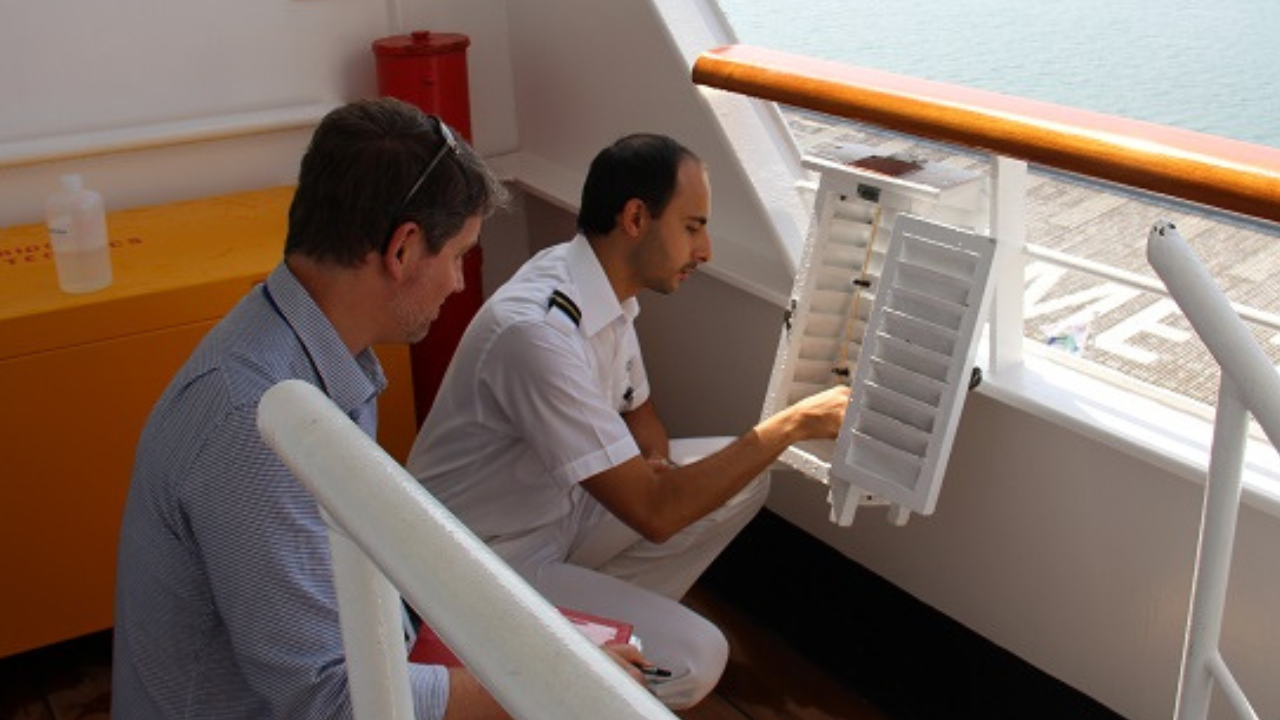
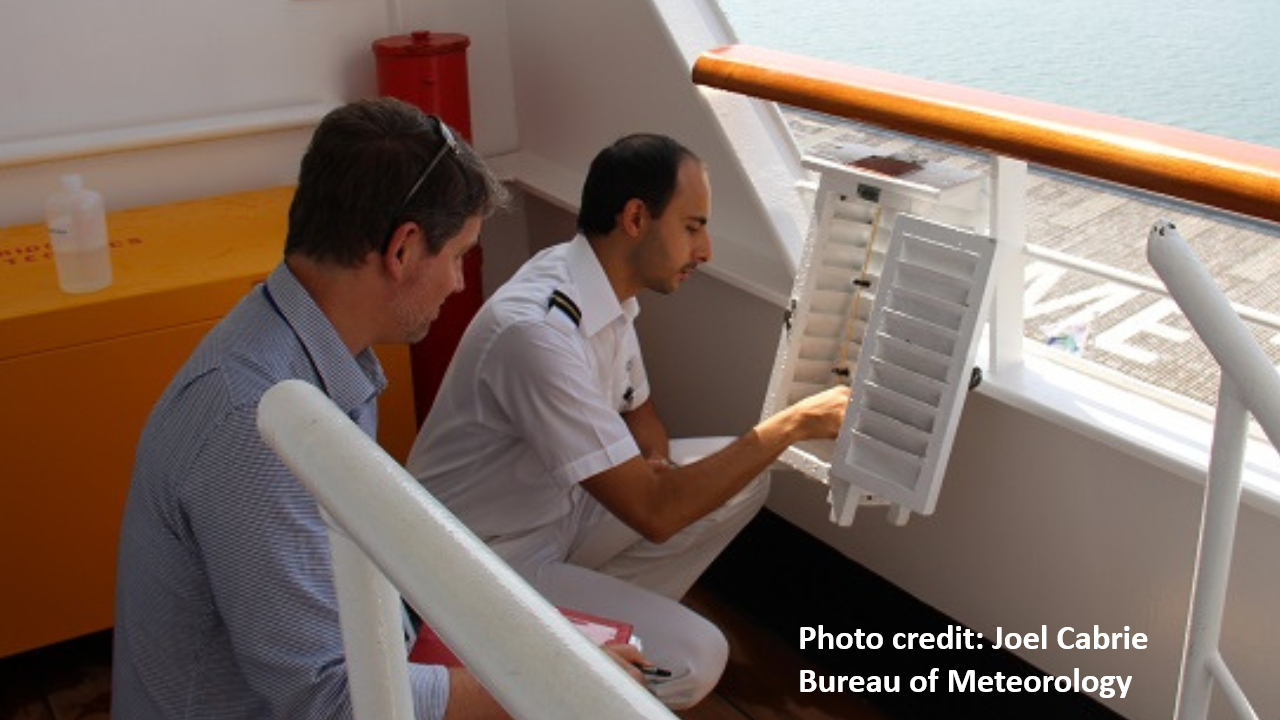
fix(images and content): added/replaced two images and two html files (request from Joel)

Changed region(s): [[0.625, 0.8556, 0.9062, 0.9778]]

diff --git a/vos.html b/vos.html
@@ -74,7 +74,7 @@
       </div>
       <div class="hero-column-mid">
         <div class="hero-content">
-          <h1>The Voluntary Observing Ship Scheme — ships at sea in service of science</h1>
+          <h1>The Voluntary Observing Ship Scheme — Supporting maritime safety</h1>
         </div>
         <div class="hero-logos">
           <a href="https://www.wmo.int" target="_blank">
@@ -99,8 +99,8 @@
       <div class="content content-float">
         <h2 id="vos_history">The Voluntary Observing Ship Scheme</h2>
         <figure class="floating-image-right" style="max-width: 500px;">
-          <img src="figures/VOS_instruments.png" alt="Meteorological instrument to be installed onboard of VOS ships">
-          <figcaption>Meteorological instrument to be installed onboard of VOS ships</figcaption>
+          <img src="figures/VOS_instruments.png" alt="Meteorological instrument used on VOS">
+          <figcaption>Meteorological instrument used on VOS. Credit: Deutscher Wetterdienst (DWD) </figcaption>
         </figure>
         <div class="text-content">
           <p>
@@ -124,13 +124,13 @@
   <!-- Statistics Section -->
   <section class="statistics">
     <div class="container">
-      <h3 style="margin-bottom: 20px; text-align: left">Why VOS observations matter</h3>
+      <h3 style="margin-bottom: 20px; text-align: left">VOS observations and why they matter</h3>
       <div class="news-grid" style="margin-bottom: 20px;">
         <div class="news-item">
           <p>Atmospheric pressure</p>
         </div>
         <div class="news-item">
-          <p>Wind speed & direction</p>
+          <p>Sea state, wind & clouds</p>
         </div>
         <div class="news-item">
           <p>Sea surface temperature</p>
@@ -141,17 +141,16 @@
           <p>Air temperature & humidity</p>
         </div>
         <div class="news-item">
-          <p>Wave height & direction</p>
+          <p>Visibility & atmospheric phenomena</p>
         </div>
         <div class="news-item">
           <p>Sea ice extent</p>
         </div>
-      </div>
       <p style="margin-top: 20px; text-align: left">
-        The ocean covers about two-thirds of Earth's surface. For most of its history, ships were the only means of obtaining direct meteorological measurements from those vast, remote regions. That has not fundamentally changed: even with satellites, drifting buoys, and autonomous platforms, ships remain the only platforms capable of simultaneously measuring air temperature, dew point, and other surface variables with the directness and precision that operational weather and climate services require.
+        The ocean covers about two-thirds of Earth's surface. For most of its history, ships were the only means of obtaining direct meteorological measurements from those vast, remote regions. That has not fundamentally changed: even with satellites, drifting buoys, and autonomous platforms, ships remain the only stations capable of measuring air temperature, humidity, and other surface variables with the directness and precision that operational weather and climate services require.
       </p>
       <p style="margin-top: 20px; text-align: left">
-        VOS observations serve a wide range of essential purposes: the preparation of marine forecasts and warnings; support for offshore industry and maritime safety; numerical weather prediction models; weekly and monthly ocean state analyses; long-term climatological records; and research into climate variability and change. The 1,500+ ship reports received globally every day are foundational inputs to forecast models that protect lives and economies.
+        VOS observations serve a wide range of essential purposes: the preparation of marine forecasts and warnings; support for offshore industry and maritime safety; numerical weather prediction models; weekly and monthly ocean state analyses; long-term climatological records; and research into climate variability and change. The 2000+ ship reports reported globally every day are foundational inputs to forecast models that protect lives and economies.
       </p>
     </div>
   </section>
@@ -164,10 +163,10 @@
         <div class="twoparts-left">
           <h3>From ship to forecast — how VOS data moves</h3>
           <p>
-            Ships' observations are typically made at the standard synoptic hours of 0000, 0600, 1200, and 1800 UTC, and transmitted to shore by email or Inmarsat-C satellite communication. <a href="https://gitlab.com/KNMI-OSS/turbowin/turbowin/" target="_blank">Electronic logbook software</a> — most commonly TurboWin — assists observers in encoding, quality-checking, and transmitting their reports in internationally agreed format.
+            Ships' observations are made throughout the day and transmitted to shore. <a href="https://gitlab.com/KNMI-OSS/turbowin/turbowin/" target="_blank">Electronic logbook software</a> — most commonly TurboWin — assists observers in encoding, quality-checking, and transmitting their reports in internationally agreed format.
           </p>
           <p>
-            These real-time reports are distributed via the GTS within minutes and immediately assimilated into numerical weather prediction models at centres worldwide. Delayed-mode logbook data, collected by PMOs during port visits, are submitted quarterly in <a href="https://www.ocean-ops.org/sot/vos/documents/immt5.pdf">IMMT format</a> to the Global Data Collection Centres in Germany and the United Kingdom, building the long-term climate archive.
+            These real-time reports are distributed within minutes and immediately assimilated into numerical weather prediction models at centres worldwide. Delayed-mode logbook data, collected by PMOs during port visits, are submitted quarterly in <a href="https://www.ocean-ops.org/sot/vos/documents/immt5.pdf">IMMT format</a> to the Global Data Collection Centres in Germany and the United Kingdom, building the long-term climate archive.
           </p>
           <p>
             A list of all VOS ships and their instrumentation is maintained in the <a href="https://www.ocean-ops.org/board?t=sot">OceanOPS Metadata Database</a> — the authoritative global registry of the VOS fleet.
@@ -207,7 +206,7 @@
             The 10,000 Ships for the Ocean initiative addresses a critical disparity in the global observing architecture, as currently 15 times fewer data points are available over the ocean than over land. This gap leads to less accurate marine forecasts, increased uncertainty in storm predictions, and significant unknowns in climate projections. Launched at the 2025 United Nations Ocean Conference (UNOC3) and backed by the WMO, IOC-UNESCO, and IMO, this bold vision seeks to close these gaps by equipping 10,000 commercial vessels with standardized, automated meteorological and oceanographic technologies by 2035. By transforming the global fleet into a "science in motion" network, the initiative provides the ground truth necessary to power life-saving early warning systems, enhance numerical weather prediction (NWP) models, and support the UN Ocean Decade Vision 2030.
           </p>
           <p>
-            While both the 10,000 Ships initiative and the VOS Scheme are pillars of the Global Ocean Observing System (GOOS), they serve complementary roles in expanding ship-based observations. The 10,000 Ships initiative acts as a high-level strategic effort to scale up infrastructure and foster global alliances with the shipping industry through formal participation pledges. In contrast, the VOS Scheme is a long-standing operational network where National Meteorological Services recruit and train ships to transmit near real-time surface synoptic reports, forming the backbone of marine meteorology for over a century. Together, these efforts ensure that every ship and every observation contributes to a safer, better-understood world, reaching weather centres and research institutes globally.
+            The 10,000 Ships initiative and the VOS Scheme serve complementary roles in expanding ship-based observations. The 10,000 Ships initiative acts as a high-level strategic effort to scale up infrastructure and foster global alliances with the shipping industry through formal participation pledges. In contrast, the VOS Scheme is a long-standing operational network where National Meteorological Services recruit ships to transmit near real-time surface synoptic reports, forming the backbone of marine meteorology for over a century. Together, these efforts increase the number of observations available to help contribute to a safer, better-understood world, reaching weather centres and research institutes globally.
           </p>
           <ul class="custom-bullets">
             <li><a href="https://www.ocean-ops.org/unoc/" target="_blank">Read more about the initiative</a> →</li>

diff --git a/pmo.html b/pmo.html
@@ -104,7 +104,7 @@
           The Port Meteorological Officer (PMO) is a representative of a national meteorological service (NMS), typically based at or near a major commercial port. They are the primary point of contact between the national meteorological service and the maritime community — shipping companies, harbour authorities, maritime colleges, ships' officers, and crew.
           </p>
           <p>
-          Without the dedication of PMOs, the VOS Scheme could not function. They recruit ships, supply and calibrate instruments, train observers, monitor data quality, collect delayed-mode logbook data, and maintain the relationships with the maritime community that make the entire observation network possible. Without them, the quality and quantity of marine meteorological data would decline rapidly — with direct consequences for marine forecasting, climate monitoring, and the services that national meteorological services provide.
+          Without the dedication of PMOs, the VOS Scheme could not function. They recruit ships, inspect and service instruments, train observers, monitor data quality, collect delayed-mode logbook data, and maintain the relationships with the maritime community that make the entire observation network possible. Without them, the quality and quantity of marine meteorological data would decline rapidly — with direct consequences for marine forecasting, climate monitoring, and the services that national meteorological services provide.
           </p>
         </div>
         <div class="right-column">
@@ -130,7 +130,7 @@
           <p>Recruit ships into the national VOS fleet</p>
         </div>
         <div class="news-item">
-          <p>Inspect and calibrate instruments on board</p>
+          <p>Inspect and service instruments on board</p>
         </div>
         <div class="news-item">
           <p>Monitor data quality and support observers</p>
@@ -145,7 +145,7 @@
             <li>International support — At the request of another PMO or a ship's Master, providing assistance regardless of the ship's nationality: barometer checks, instrument inspections, observer guidance, and equipment recovery for return to the country of recruitment.</li>
             <li>Liaison — Maintaining active contact with the NMS, neighbouring PMOs, harbour authorities, shipping companies, and maritime training institutions.</li>
             <li>Transmission support — Enquiring about problems with meteorological data transmission and the reception of forecasts and facsimile broadcasts, and relaying findings to the NMS.</li>
-            <li>Complementary network — Supporting the deployment of drifting buoys (DBCP), Argo floats, and participation in SOOP and ASAP, as requested by the NMS.</li>
+            <li>Complementary network — Supporting the deployment of drifting buoys (DBCP), Argo floats, and participation in OceanTraX and ASAP, as requested by the NMS.</li>
             <li>Recognition — Presenting SOT Certificates of Appreciation and national awards to qualifying ships; distributing newsletters and goodwill items to maintain crew engagement.</li>
         </ol>
     </div>
@@ -158,7 +158,7 @@
       <div class="content content-float">
         <h3>Port presence — why location matters</h3>
         <figure class="floating-image-right" style="max-width: 600px;">
-          <img src="figures/weather_observation_at_sea.png" alt="an image of a man looking at some on screen weather map in a ship">
+          <img src="figures/inspect1.png" alt="an image of a man looking at some on screen weather map in a ship">
         </figure>
         <div class="text-content">
           <p>The PMO office should be located at the main commercial port wherever possible. Port proximity is what makes the role effective: it enables more frequent board visits during ships' brief port calls, faster response when instruments need replacing, and closer relationships with port agents, harbour masters, and shipping company representatives.</p>
